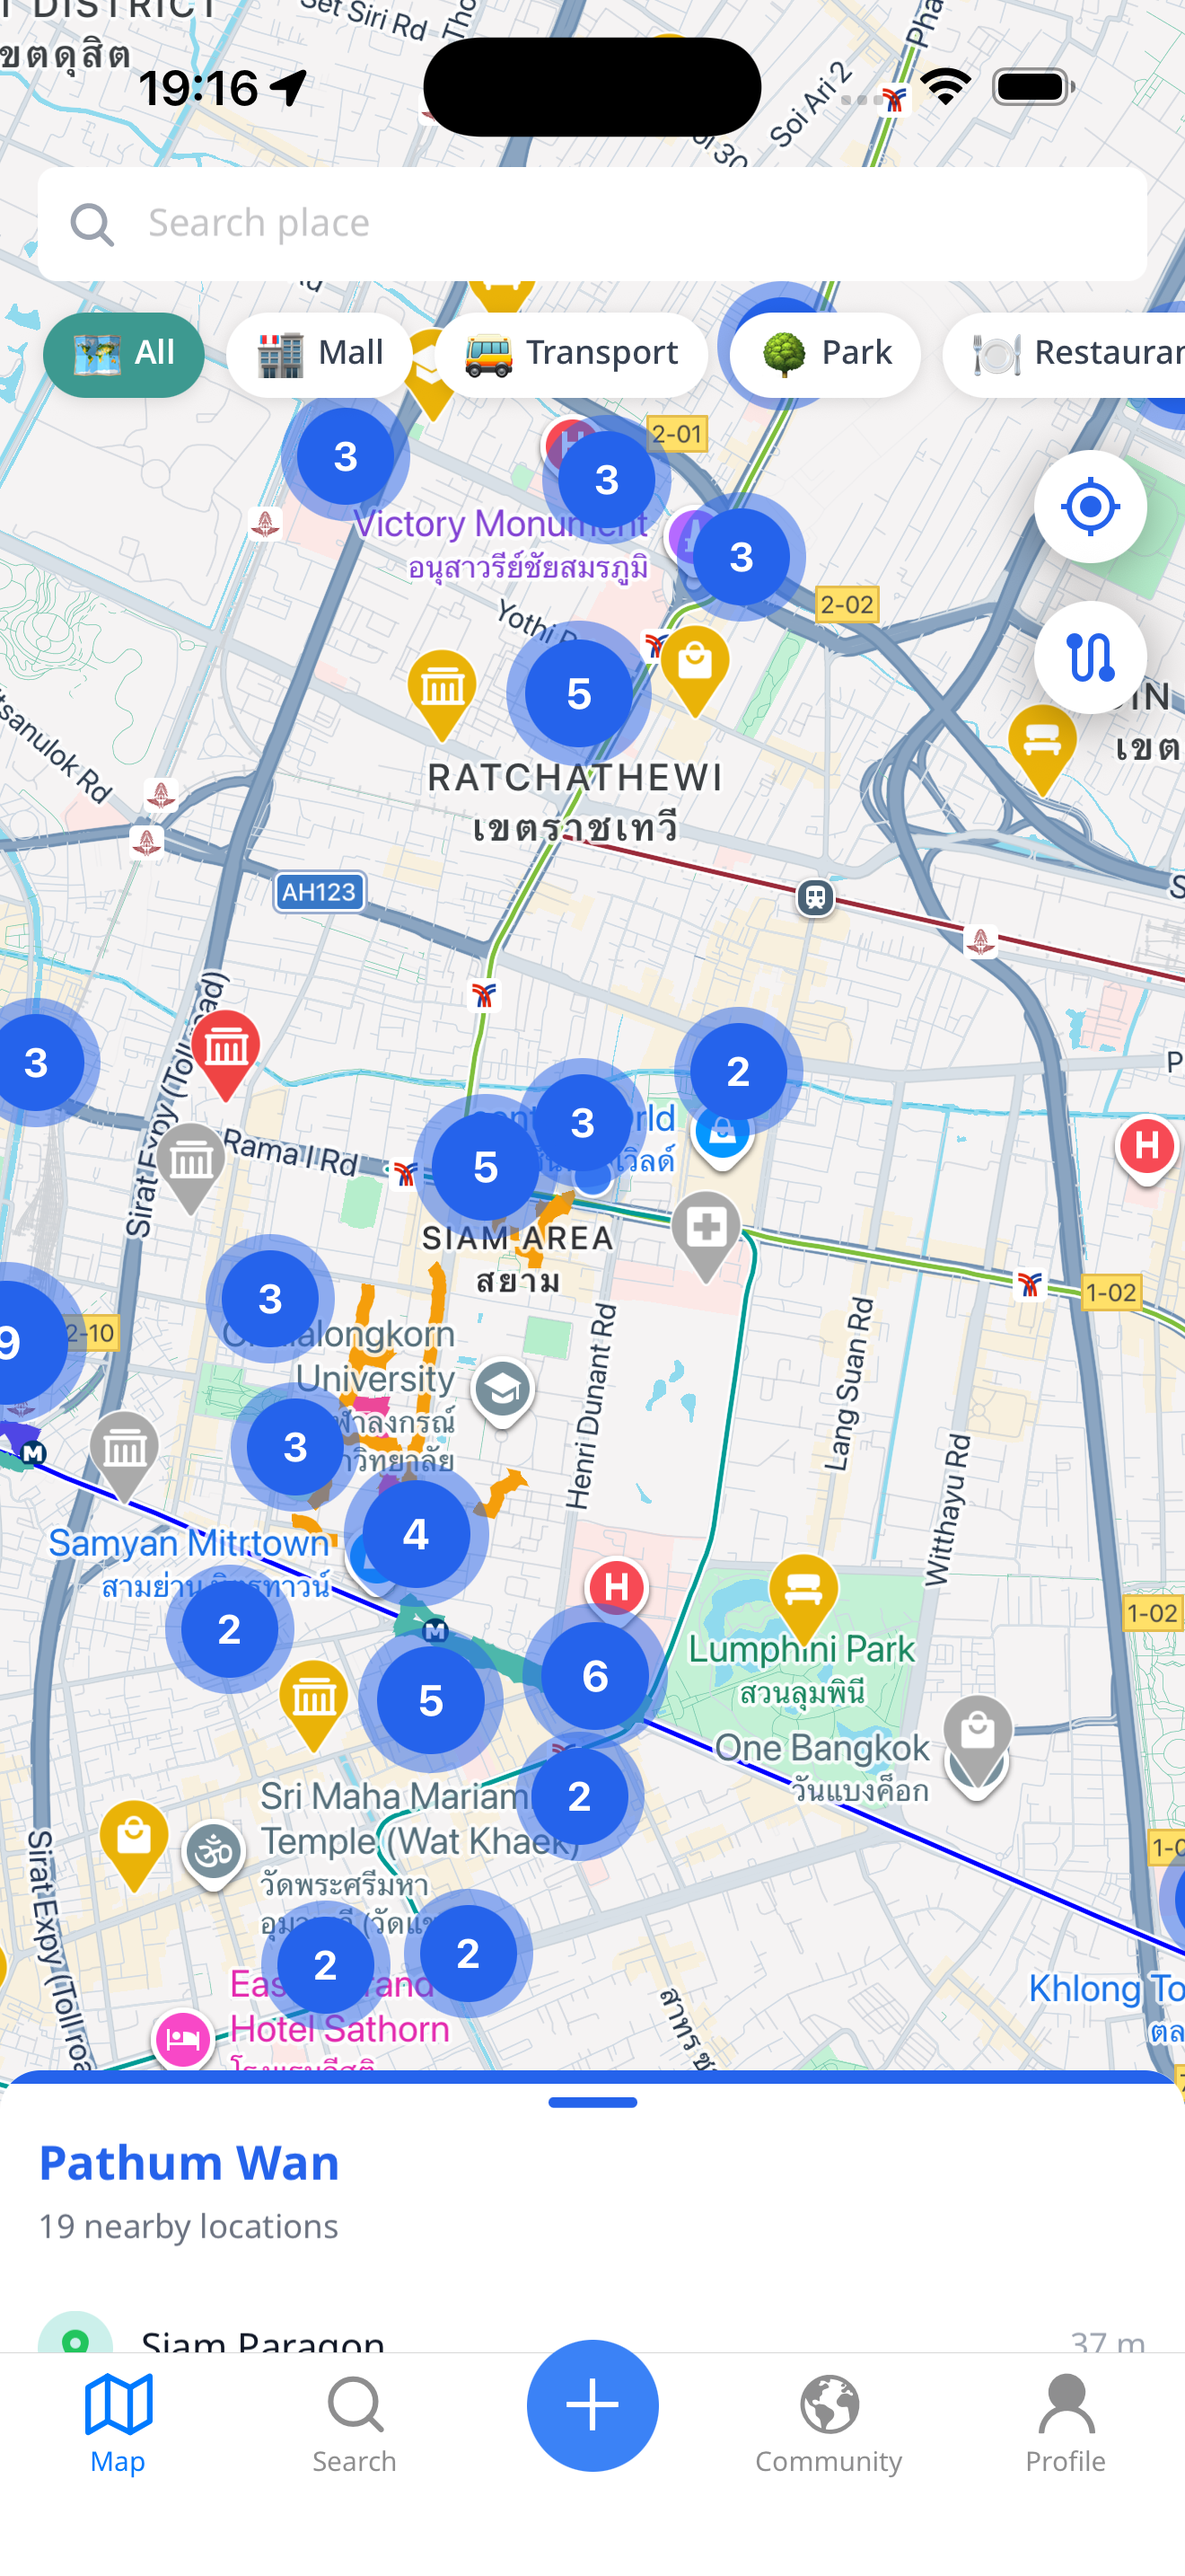
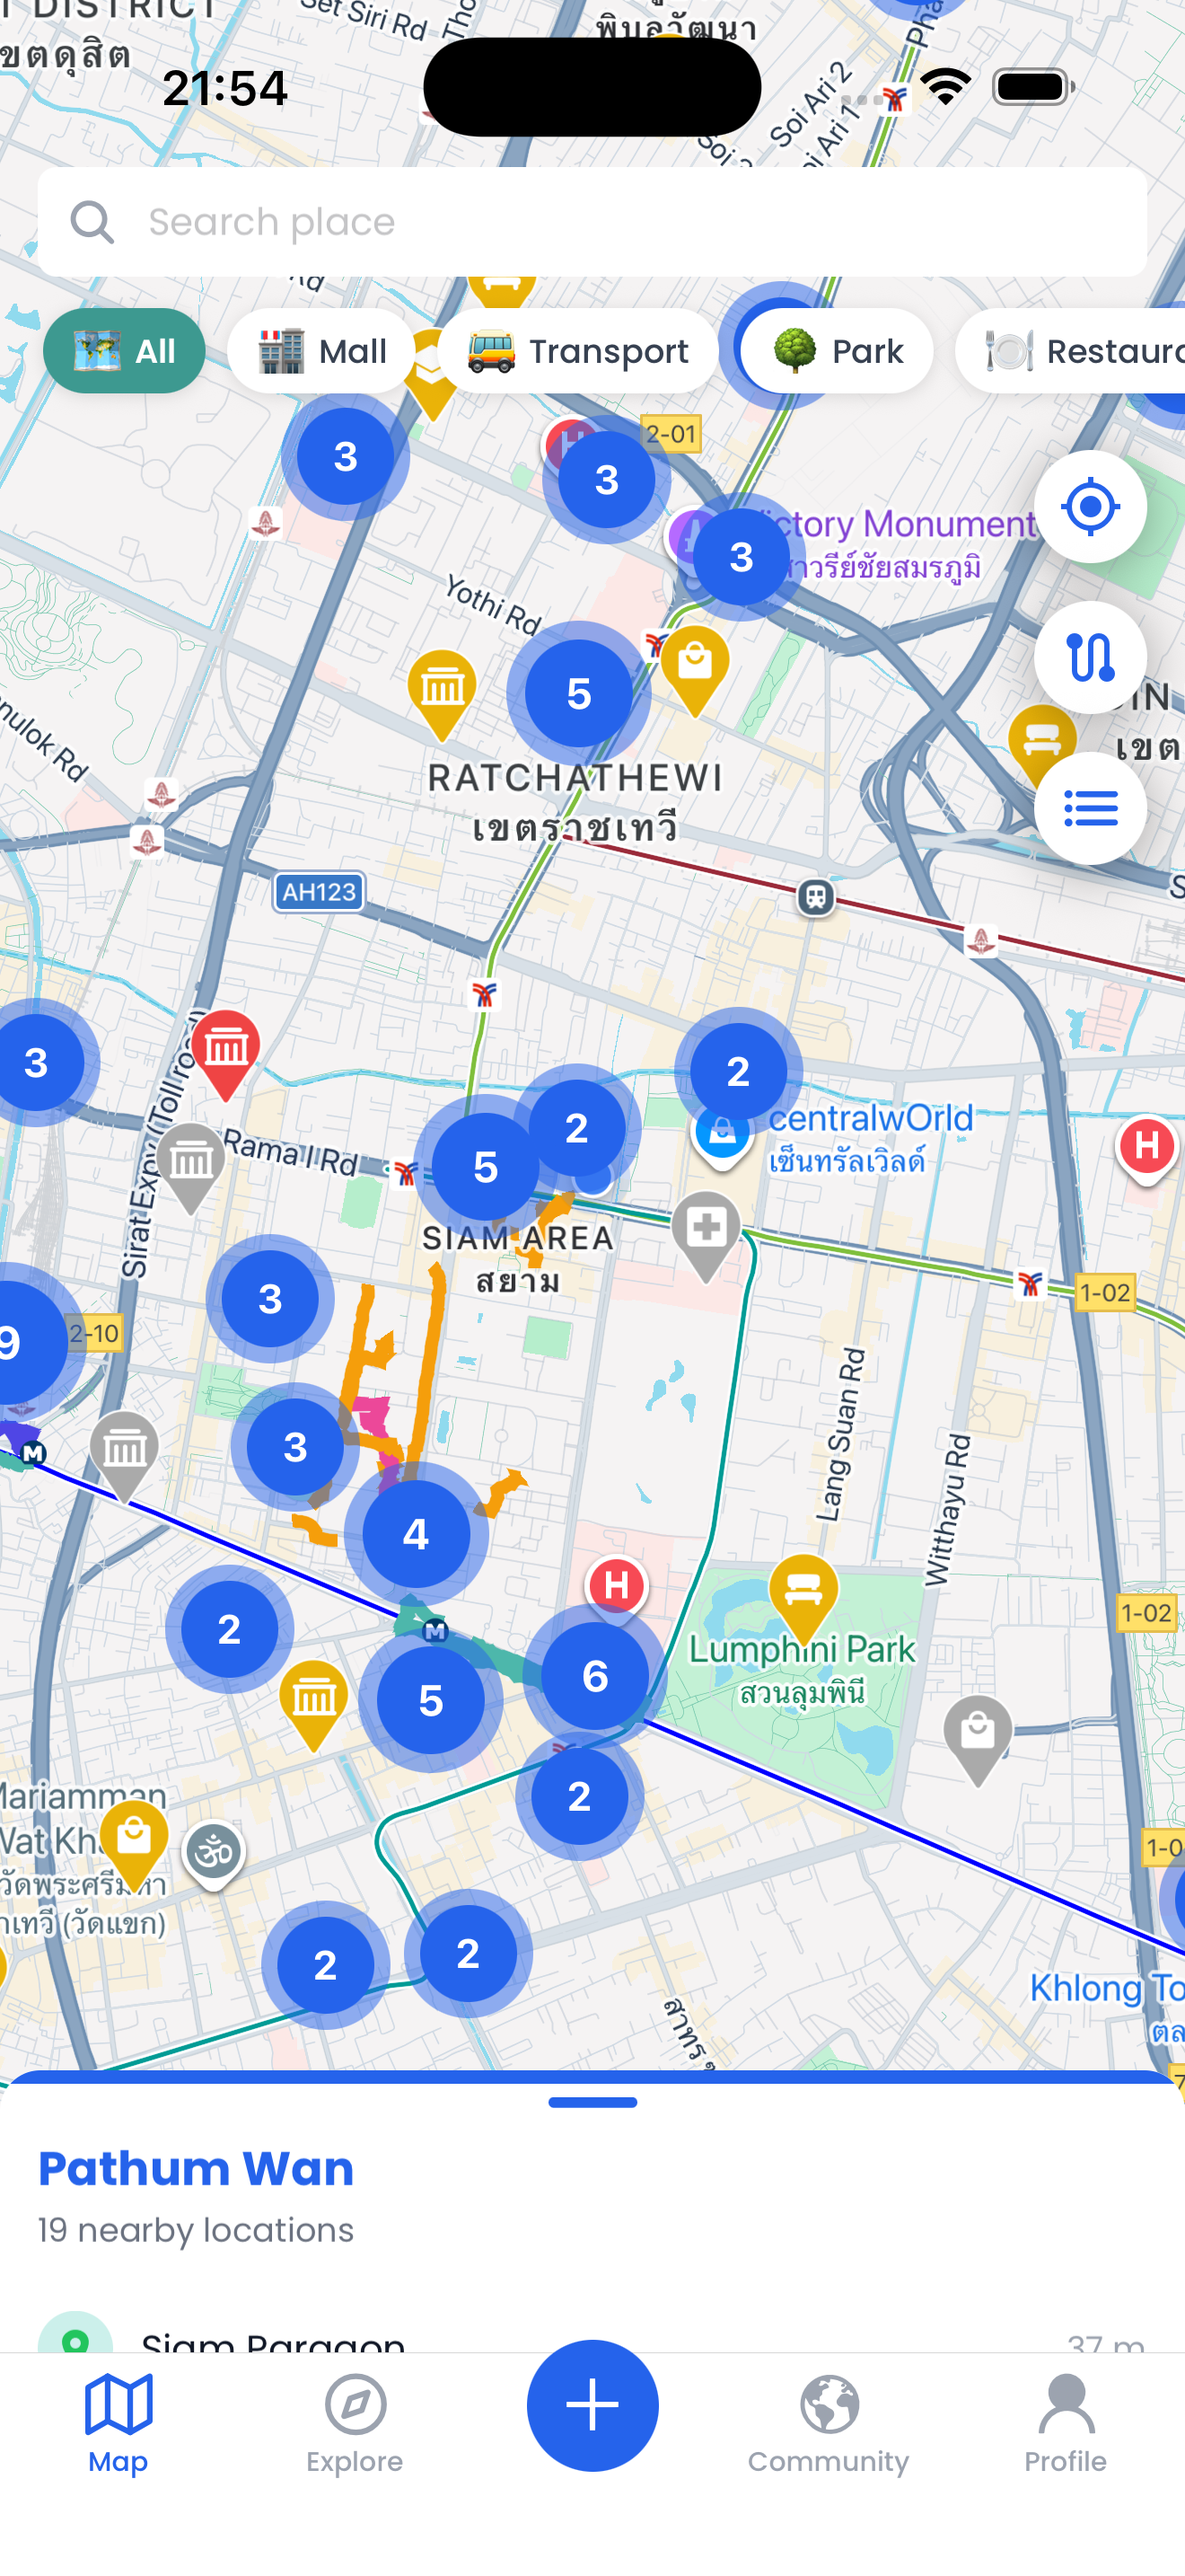
feat: enhance home/solutions pages, update fonts, and improve robustness
Summary of changes:
- Updated 'Download APK' to 'Google Play' badge in Solutions page.
- Switched global fonts to Poppins (EN) and Prompt (TH) with dynamic switching.
- Updated User Manual URL to the production link.
- Converted phone mockup images to .png and updated AppShowcaseSection.
- Replaced FeaturesSection with a refactored StatsSection on the Home page.
- Improved fetch error handling in StatsSection to prevent dev mode crashes.

diff --git a/src/components/home/StatsSection.tsx b/src/components/home/StatsSection.tsx
@@ -18,13 +18,24 @@ export default function StatsSection() {
         const res = await fetch(
           "https://api.gooseway.co/dashboard/public-stats",
         );
+        
+        if (!res.ok) {
+          throw new Error(`HTTP error! status: ${res.status}`);
+        }
+
         const data = await res.json();
-        setTotalUsers(data.totalUsers);
-        setTotalLocations(data.totalLocations);
-        setSatisfactionPercent(data.satisfactionPercent);
-        setTotalDistanceKm(Math.round(data.totalDistanceMeters / 1000));
+        
+        if (data) {
+          if (data.totalUsers !== undefined) setTotalUsers(data.totalUsers);
+          if (data.totalLocations !== undefined) setTotalLocations(data.totalLocations);
+          if (data.satisfactionPercent !== undefined) setSatisfactionPercent(data.satisfactionPercent);
+          if (data.totalDistanceMeters !== undefined) {
+            setTotalDistanceKm(Math.round(data.totalDistanceMeters / 1000));
+          }
+        }
       } catch (error) {
-        console.error("Failed to fetch stats:", error);
+        // Log error silently to prevent crashing the UI in dev mode
+        console.warn("Stats fetch failed (using fallback):", error);
       }
     };
     fetchStats();
@@ -32,7 +43,7 @@ export default function StatsSection() {
 
   const stats = [
     {
-      value: "80.7%",
+      value: satisfactionPercent !== null ? `${satisfactionPercent}%` : "80.7%",
       label: t("stats_satisfaction"),
     },
     {
@@ -53,17 +64,19 @@ export default function StatsSection() {
   ];
 
   return (
-    <section className="py-16 bg-gradient-to-r from-blue-600 to-blue-700 text-white rounded-3xl overflow-hidden my-8">
-      <div className="max-w-7xl mx-auto px-4">
-        <div className="grid grid-cols-2 md:grid-cols-4 gap-8 text-center">
-          {stats.map((stat, index) => (
-            <div key={index} className="p-6 rounded-lg">
-              <div className="text-4xl font-bold mb-2">{stat.value}</div>
-              <div className="text-blue-100">{stat.label}</div>
-            </div>
-          ))}
+    <div className="max-w-7xl mx-auto px-4 sm:px-6 lg:px-8">
+      <section className="py-16 bg-gradient-to-r from-blue-600 to-blue-700 text-white rounded-3xl overflow-hidden my-8 shadow-lg">
+        <div className="max-w-7xl mx-auto px-4">
+          <div className="grid grid-cols-2 md:grid-cols-4 gap-8 text-center">
+            {stats.map((stat, index) => (
+              <div key={index} className="p-6 rounded-lg">
+                <div className="text-4xl font-bold mb-2">{stat.value}</div>
+                <div className="text-blue-100">{stat.label}</div>
+              </div>
+            ))}
+          </div>
         </div>
-      </div>
-    </section>
+      </section>
+    </div>
   );
 }

diff --git a/src/app/layout.tsx b/src/app/layout.tsx
@@ -1,5 +1,5 @@
 // src/app/layout.tsx
-import { Nunito } from "next/font/google";
+import { Poppins, Prompt } from "next/font/google";
 import "./globals.css";
 import Navbar from "@/components/Navbar";
 import Footer from "@/components/Footer";
@@ -10,10 +10,16 @@ import { Metadata } from "next";
 import { ModalProvider } from "@/context/ModalContext";
 import ComingSoonModal from "@/components/modals/ComingSoonModal";
 
-const nunito = Nunito({
+const poppins = Poppins({
   subsets: ["latin"],
   weight: ["400", "500", "600", "700", "800", "900"],
-  variable: "--font-nunito",
+  variable: "--font-poppins",
+});
+
+const prompt = Prompt({
+  subsets: ["latin", "thai"],
+  weight: ["100", "200", "300", "400", "500", "600", "700", "800", "900"],
+  variable: "--font-prompt",
 });
 
 export const metadata: Metadata = {
@@ -35,7 +41,13 @@ export default function RootLayout({
       <head>
         <meta name="agd-partner-manual-verification" />
       </head>
-      <body className={`${nunito.variable} font-sans`}>
+      <body
+        className="font-sans"
+        style={{
+          "--font-poppins": poppins.style.fontFamily,
+          "--font-prompt": prompt.style.fontFamily,
+        } as React.CSSProperties}
+      >
         <LanguageProvider>
           <ModalProvider>
             <div className="min-h-screen bg-white">

diff --git a/src/context/LanguageContext.tsx b/src/context/LanguageContext.tsx
@@ -43,6 +43,13 @@ export const LanguageProvider = ({ children }: { children: ReactNode }) => {
     setTranslations(
       defaultTranslations[savedLanguage as keyof typeof defaultTranslations],
     );
+    // Update HTML lang attribute and body class
+    document.documentElement.lang = savedLanguage;
+    if (savedLanguage === "th") {
+      document.body.classList.add("lang-th");
+    } else {
+      document.body.classList.remove("lang-th");
+    }
   }, []);
 
   // เปลี่ยนภาษาและบันทึกลงใน localStorage
@@ -52,6 +59,14 @@ export const LanguageProvider = ({ children }: { children: ReactNode }) => {
       defaultTranslations[lang as keyof typeof defaultTranslations],
     );
     localStorage.setItem("language", lang);
+
+    // Update HTML lang attribute and body class
+    document.documentElement.lang = lang;
+    if (lang === "th") {
+      document.body.classList.add("lang-th");
+    } else {
+      document.body.classList.remove("lang-th");
+    }
   };
 
   // ฟังก์ชันสำหรับแปลข้อความ

diff --git a/src/components/home/HomeClient.tsx b/src/components/home/HomeClient.tsx
@@ -1,8 +1,8 @@
 "use client";
 // src/components/home/HomeClient.tsx
 
-import FeaturesSection from "@/components/home/FeaturesSection";
 import AppShowcaseSection from "@/components/home/AppShowcaseSection";
+import StatsSection from "@/components/home/StatsSection";
 import { useModal } from "@/context/ModalContext";
 
 export default function HomeClient() {
@@ -11,7 +11,7 @@ export default function HomeClient() {
   return (
     <>
       <AppShowcaseSection />
-      <FeaturesSection onLearnMoreClick={openComingSoon} />
+      <StatsSection />
     </>
   );
 }

diff --git a/src/components/solutions/AppShowcase.tsx b/src/components/solutions/AppShowcase.tsx
@@ -324,7 +324,7 @@ export default function AppShowcase({ solutions }: AppShowcaseProps) {
               <div className="flex flex-col sm:flex-row gap-3 sm:gap-4 justify-center lg:justify-start pt-2">
                 {/* Manual Button (Filled) */}
                 <a
-                  href="https://gooseway.vercel.app/user-manual.pdf"
+                  href="https://www.gooseway.co/user-manual.pdf"
                   target="_blank"
                   rel="noopener noreferrer"
                   className={`${

diff --git a/src/app/globals.css b/src/app/globals.css
@@ -14,6 +14,15 @@
 body {
   color: var(--foreground);
   background: var(--background);
+  --font-main: var(--font-poppins);
+}
+
+body.lang-th {
+  --font-main: var(--font-prompt);
+}
+
+body, h1, h2, h3, h4, h5, h6, p, div, span, a, button {
+  font-family: var(--font-main), ui-sans-serif, system-ui, -apple-system, BlinkMacSystemFont, "Segoe UI", Roboto, "Helvetica Neue", Arial, sans-serif !important;
 }
 
 /* Animation utilities */

diff --git a/src/components/home/AppShowcaseSection.tsx b/src/components/home/AppShowcaseSection.tsx
@@ -6,12 +6,12 @@ import { useLanguage } from "@/context/LanguageContext";
 
 const screens = [
   {
-    src: "/solutions/solution1.jpg",
+    src: "/solutions/solution1.png",
     titleKey: "showcase1_title",
     descKey: "showcase1_desc",
   },
   {
-    src: "/solutions/solution2.jpg",
+    src: "/solutions/solution2.png",
     titleKey: "showcase2_title",
     descKey: "showcase2_desc",
     featured: true,

diff --git a/tailwind.config.ts b/tailwind.config.ts
@@ -22,7 +22,9 @@ const config: Config = {
         },
       },
       fontFamily: {
-        nunito: ["Nunito", "sans-serif"],
+        poppins: ["var(--font-poppins)", "sans-serif"],
+        prompt: ["var(--font-prompt)", "sans-serif"],
+        sans: ["var(--font-main)", "sans-serif"],
       },
       animation: {
         float: "float 6s ease-in-out infinite",
